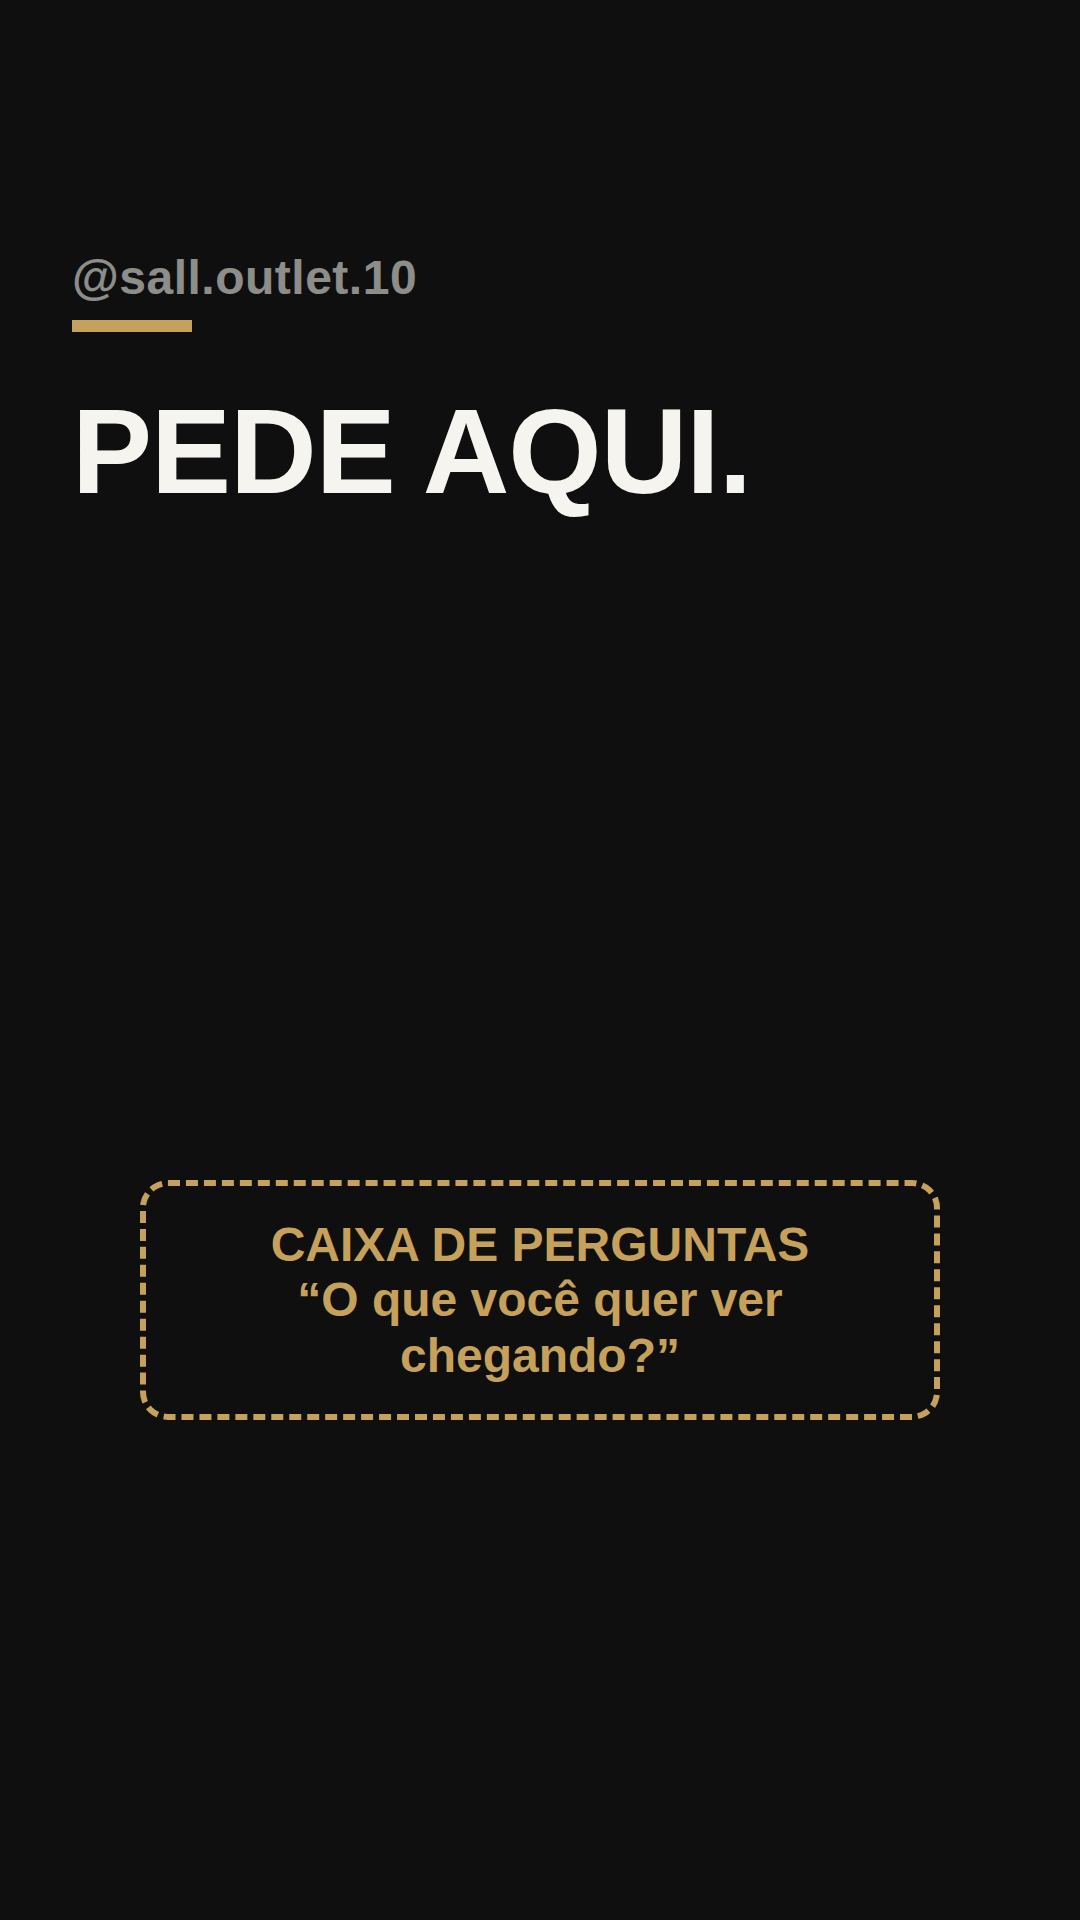
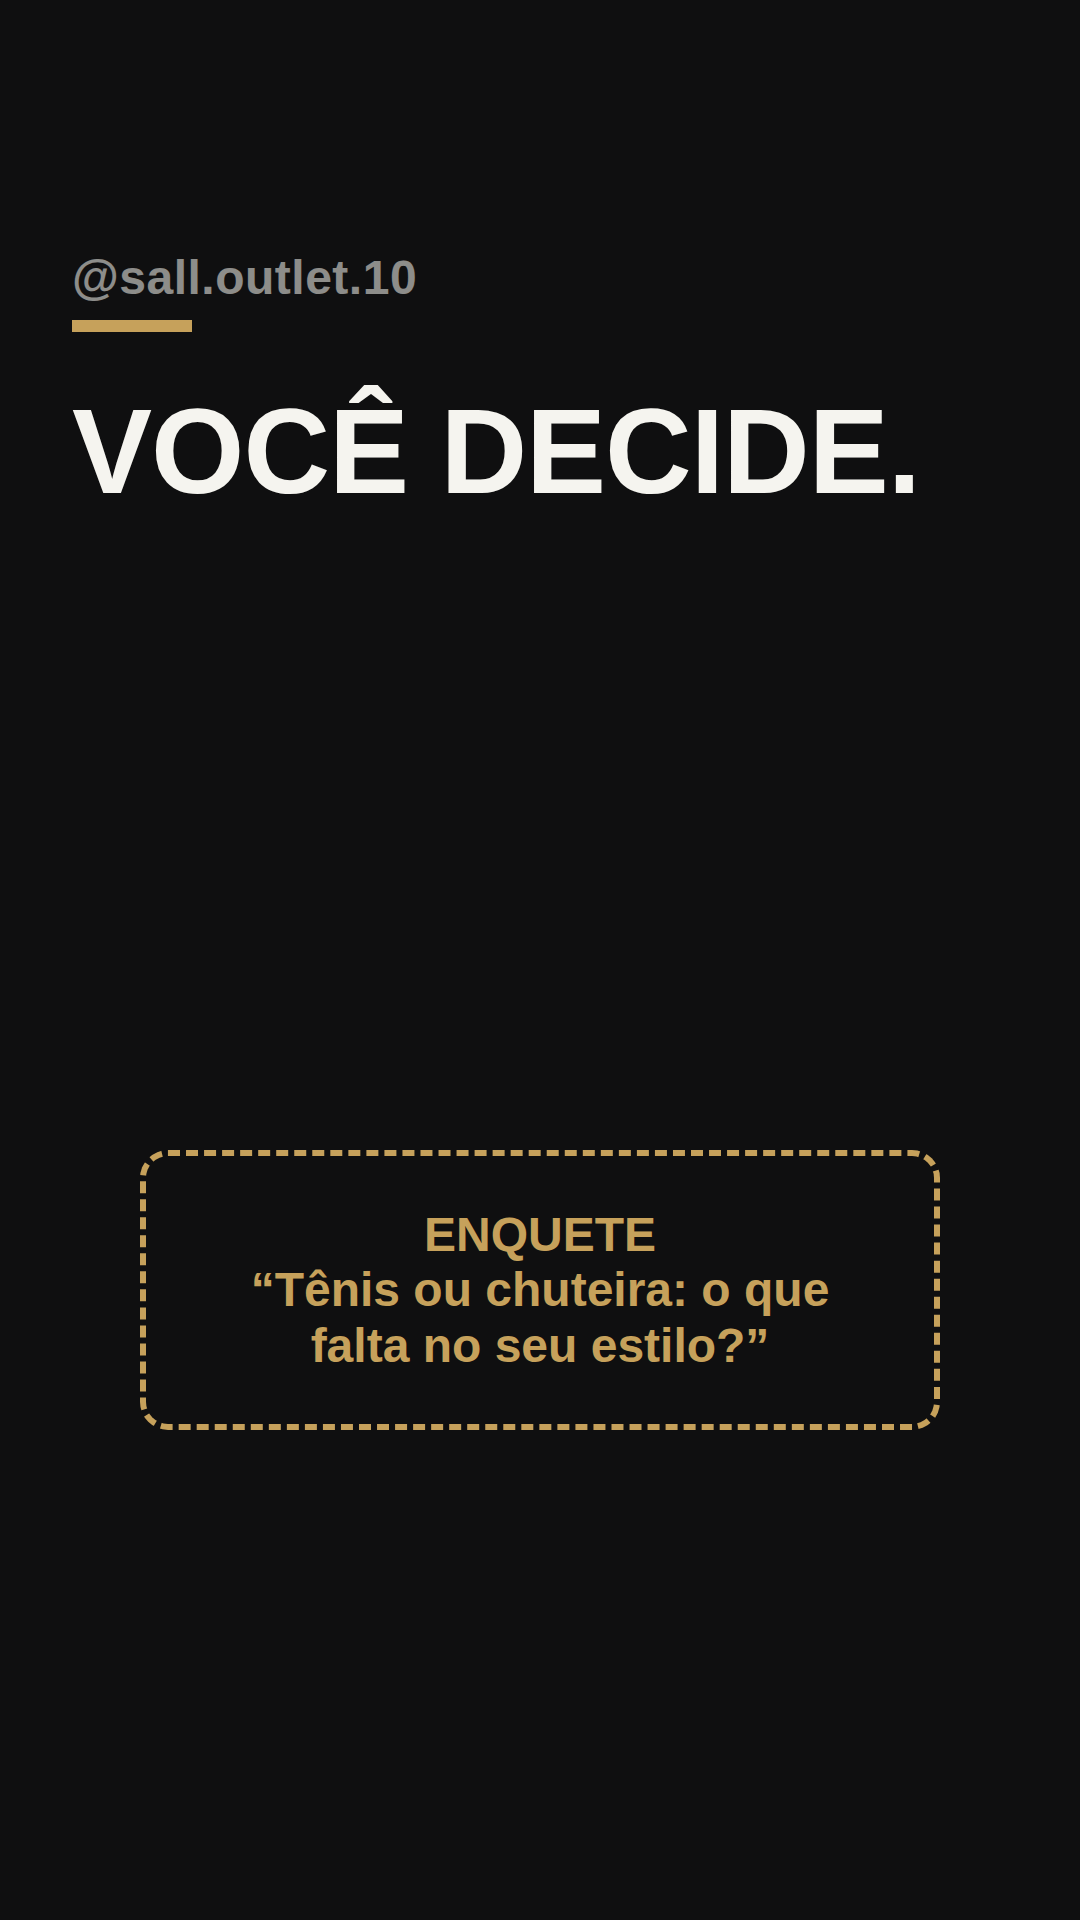
Stories: Saturday PNGs, sticker swaps, and a week roteiro
- 10/10: Saturday question-box screens for SALL Loja and SALL Outlet.
- 09/10 Loja plan B: quiz becomes a poll ("Qual você joga mais?"),
  the first of the week's two Loja polls.
- 08/10 Outlet no-photo: screen 02 becomes a poll (tênis ou chuteira)
  so Saturday keeps the only question box.
- out/stories/roteiro-semana-2026-10-05.md: one posting guide for the
  week (screens, stickers, rules, plan B logic, feed corrections and
  what is still pending).

Claude-Session: https://claude.ai/code/session_014pu1mEdjFgQDZR3YbUYQEj

Changed region(s): [[0.1222, 0.5938, 0.8861, 0.75], [0.3972, 0.1875, 0.8556, 0.2812], [0.0611, 0.1875, 0.3667, 0.2812]]

diff --git a/out/stories/roteiro-semana-2026-10-05.md b/out/stories/roteiro-semana-2026-10-05.md
@@ -1,0 +1,170 @@
+# Roteiro da semana · Stories SALL Loja e SALL Outlet · 05 a 11/10/2026
+
+Guia único para postar a semana inteira: o que vai ao ar em cada dia, em que ordem, com qual figurinha, e quais regras valem.
+Arquivos: `out/stories/2026-10-DD/<marca>/NN.png` no branch `claude/festive-archimedes-8te3o5`.
+
+---
+
+## 1. Regras que valem todos os dias
+
+**Marcas**
+| | SALL Loja · @sallloja10 | SALL Outlet · @sall.outlet.10 |
+|---|---|---|
+| Vende | itens e contas de Roblox (Blox Fruits, Steal a Brainrot) | roupas, tênis, chuteiras e variedade. **Nada de Roblox** |
+| Série fixa | POV (pedido confirmado → processando 94% → entrega concluída → já é seu) | "Chegou na Outlet" + "esse ou esse?" |
+| Assinatura | SALL. Seu upgrade começa aqui. | SALL Outlet — exclusividade e estilo. |
+| Link | sallloja.com | salloutlet.com |
+| Cor de destaque (provisória) | azul #4C7DFF | dourado #C6A15B |
+
+Fundo #0F0F10, texto #F5F4EF, fonte Liberation Sans Bold. A paleta é provisória e está registrada no voice.md.
+
+**Nunca**
+- Inventar preço, desconto, prazo de entrega, quantidade de produtos ou depoimento.
+- Prometer velocidade de entrega (nada de "entrega na hora" ou "entrega rápida").
+- Citar número de produtos sem confirmação do dono.
+- Afirmar que algo "acabou de chegar" sem item confirmado.
+- Usar imagem de banco, ilustração ou produto genérico no lugar do real.
+- Misturar assinatura ou CTA entre as marcas.
+
+**Formato de cada dia**
+- Tela 1 é gancho (pergunta, contraste ou número real), pontuado pelo `hookscore.py`.
+- No máximo 4 telas por marca. Pelo menos 1 figurinha interativa por dia.
+- A última tela tem figurinha de **link** (nunca link escrito). Exceção: quarta, que fecha com o repost.
+- Imagem 1080x1920. Nada nos 250 px de cima nem nos 340 px de baixo. Fonte ≥ 48 px, até ~15 palavras por tela.
+- O retângulo pontilhado marca onde colar a figurinha no app. A figurinha cobre o texto de guia.
+- SALL Loja: no máximo **2 enquetes na semana** (sexta e domingo).
+
+**Fotos**
+- Suba como `assets/stories/2026-10-DD/<marca>/NN.jpg` (NN = número da tela). Antes de gerar cada dia, faço `git pull` e uso a foto que estiver lá.
+- Sem foto, a tela sai só com tipografia e cor. Até agora, **todas** as telas da semana saíram assim, porque nenhuma foto foi enviada.
+
+---
+
+## 2. Dia a dia
+
+### Segunda 05 → postada na terça 06
+Arquivos: `2026-10-05/`
+
+| Marca | Tela | Texto | Figurinha |
+|---|---|---|---|
+| Loja | 01 | POV: O ITEM QUE FALTAVA NO SEU ROBLOX. (78) | — |
+| Loja | 02 | PEDIDO CONFIRMADO. / processando… 94% | Controle deslizante "Quanto você quer esse item?" |
+| Loja | 03 | ENTREGA CONCLUÍDA. / item recebido ✓ | — |
+| Loja | 04 | JÁ É SEU. / assinatura | Link → sallloja.com |
+| Outlet | 01 | VOCÊ AINDA NÃO VIU O QUE CHEGOU NA OUTLET. (87) | — |
+| Outlet | 02 | CHEGOU NA OUTLET. | — |
+| Outlet | 03 | OLHA O DETALHE. | Controle deslizante "Quanto você quer?" |
+| Outlet | 04 | GARANTE O SEU. / assinatura | Link → salloutlet.com |
+
+### Terça 06
+Sem conteúdo próprio: neste dia vão ao ar os stories de segunda.
+
+### Quarta 07 · post novo no feed (repost)
+Arquivos: `2026-10-07/` (o PNG 02 é só referência).
+
+| Marca | Tela | Texto | Figurinha |
+|---|---|---|---|
+| Loja | 01 | VOCÊ JOGA ROBLOX SEM ESSE ITEM? / post novo no feed (84) | — |
+| Loja | 02 | repost do **reel corrigido**, feito pelo Instagram com fundo de cor | Controle deslizante "Esse item no seu inventário?" |
+| Outlet | 01 | VOCÊ AINDA JOGA DE CHUTEIRA GASTA? / post novo no feed (81) | — |
+| Outlet | 02 | repost do reel Nike, feito pelo Instagram com fundo de cor | Enquete "Você joga em campo ou society?" |
+
+Como fazer o repost: abra o reel → enviar → "Adicionar ao story" → cor de fundo, texto e figurinha no app.
+
+### Quinta 08
+Arquivos: `2026-10-08/`
+
+| Marca | Tela | Texto | Figurinha |
+|---|---|---|---|
+| Loja | 01 | POV: SEU ROBLOX SEM ESSE ITEM FICOU NO PASSADO. (87) | — |
+| Loja | 02 | PEDIDO CONFIRMADO. / processando… 94% | Controle deslizante "Nível de vontade:" |
+| Loja | 03 | ENTREGA CONCLUÍDA. / item recebido ✓ | — |
+| Loja | 04 | JÁ É SEU. / assinatura | Link → sallloja.com |
+
+**SALL Outlet: escolha uma versão na hora de postar**
+- **Com foto** em `assets/stories/2026-10-08/salloutlet/` → pasta `salloutlet/`, 4 telas: "VOCÊ AINDA NÃO VIU ISSO DE PERTO NA OUTLET." (87) → "DE PERTO." → "O DETALHE FAZ O ESTILO." + controle deslizante "Combina com você?" → "GARANTE O SEU." + link.
+- **Sem foto** → pasta `salloutlet-sem-foto/`, 3 telas:
+
+| Tela | Texto | Figurinha |
+|---|---|---|
+| 01 | O QUE FALTA NO SEU ESTILO? (52) | — |
+| 02 | VOCÊ DECIDE. | Enquete "Tênis ou chuteira: o que falta no seu estilo?" |
+| 03 | SALL OUTLET / exclusividade e estilo. | Link → salloutlet.com |
+
+### Sexta 09 · plano B (itens reais não confirmados)
+Arquivos: `2026-10-09/sallloja/` e `2026-10-09/salloutlet/`
+
+| Marca | Tela | Texto | Figurinha |
+|---|---|---|---|
+| Loja | 01 | BLOX FRUITS OU STEAL A BRAINROT? / você só pode escolher um. (65) | — |
+| Loja | 02 | QUAL VOCÊ JOGA MAIS? | **Enquete 1/2** "Qual você joga mais?" Blox Fruits x Steal a Brainrot |
+| Loja | 03 | GARANTE O SEU. / assinatura | Link → sallloja.com |
+| Outlet | 01 | VOCÊ NÃO PODE FICAR SEM ALGO NOVO NA OUTLET. (87) | — |
+| Outlet | 02 | VOCÊ DECIDE. | Controle deslizante "Quanto você quer algo novo?" |
+| Outlet | 03 | GARANTE O SEU. / assinatura | Link → salloutlet.com |
+
+Se os itens reais chegarem a tempo, use as pastas `sallloja-com-enquete/` e `salloutlet-com-enquete/`. Os itens são digitados na enquete, dentro do app.
+
+### Sábado 10 · caixa de perguntas
+Arquivos: `2026-10-10/`
+
+| Marca | Tela | Texto | Figurinha |
+|---|---|---|---|
+| Loja | 01 | AINDA NÃO ACHOU SEU ITEM DE ROBLOX? / você manda. (100) | — |
+| Loja | 02 | PEDE AQUI. | Caixa de perguntas "Qual item você quer ver na SALL?" |
+| Loja | 03 | SALL. / Seu upgrade começa aqui. | Link → sallloja.com |
+| Outlet | 01 | AINDA NÃO ACHOU NA OUTLET? / você manda. (100) | — |
+| Outlet | 02 | PEDE AQUI. | Caixa de perguntas "O que você quer ver chegando?" |
+| Outlet | 03 | SALL OUTLET / exclusividade e estilo. | Link → salloutlet.com |
+
+### Domingo 11 · fechamento (PNGs ainda não gerados)
+Como sexta vai ao ar no plano B, não existe "item mais votado" nem "produto mais votado". O domingo usa a **versão B**, sem resultado:
+
+| Marca | Tela | Texto | Figurinha |
+|---|---|---|---|
+| Loja | 01 | POV: O ITEM QUE VOCÊ ESCOLHEU NO ROBLOX JÁ É SEU. (81) | — |
+| Loja | 02 | PEDIDO CONFIRMADO. / processando… 94% | **Enquete 2/2** "Garante o seu hoje?" Sim x Ainda não |
+| Loja | 03 | ENTREGA CONCLUÍDA. / item recebido ✓ | — |
+| Loja | 04 | JÁ É SEU. / assinatura | Link → sallloja.com |
+| Outlet | 01 | AINDA NÃO ACHOU NA OUTLET? | — |
+| Outlet | 02 | DE PERTO. | Controle deslizante "Esse vai pro seu look?" |
+| Outlet | 03 | GARANTE O SEU. / assinatura | Link → salloutlet.com |
+
+A tela 01 da Outlet no domingo repete o gancho de sábado. Vale decidir antes de gerar se é melhor trocar.
+
+---
+
+## 3. O que mudou no feed nesta semana
+
+| Post | Antes | Depois |
+|---|---|---|
+| Reel SALL Loja, cartão 0:02.5 | ACABOU DE CHEGAR, MANO. | OLHA ISSO, MANO. |
+| Reel SALL Loja, cartão 0:04.5 | PREÇO NO SITE. ENTREGA NA HORA. | PREÇO E DETALHES NO SITE. |
+| Reel SALL Loja, cartão 0:07.5 | 45 PRODUTOS NO SITE. | (removido) |
+| Legenda do reel SALL Loja | Item de Roblox novo acabou de chegar na SALL… | O item que faltava no seu Roblox. Garante o seu pelo link na bio. |
+| Carrossel SALL Loja | entrega rápida · 45 produtos | sem prazo e sem número |
+| Carrossel SALL Outlet | 43 produtos | sem número |
+
+O MP4-guia do reel corrigido está em `out/reels/sallloja-roblox-corrigido.mp4`. É só a camada de texto, para usar no CapCut sobre a gravação real. Se a gravação for enviada para `assets/reels/sallloja-roblox-corrigido/`, eu monto os cartões por cima.
+
+---
+
+## 4. Pendências
+
+1. **Domingo 11:** gerar os PNGs (versão B), depois de aprovar a tela 01 da Outlet.
+2. **Etapa 4:** checklist de postagem por dia. Este roteiro já cobre a ordem das telas e as figurinhas.
+3. **Etapa 5:** registrar os stories no log, atualizar o voice.md com as correções permanentes (sem prazo de entrega, sem número de produtos sem confirmação, Outlet sem Roblox) e fazer merge no `main`.
+4. **Fotos reais:** nenhuma foi enviada até agora. Quando chegarem, gero de novo o dia correspondente.
+5. **Cores oficiais:** a paleta atual é provisória.
+
+---
+
+## 5. Como gerar de novo
+
+```bash
+git pull
+python3 tools/stories/render.py tools/stories/specs/2026-10-DD.json   # stories do dia
+python3 tools/reels/render_reel.py tools/reels/specs/sallloja-roblox.json  # MP4-guia do reel
+```
+
+O texto de cada tela fica em `tools/stories/specs/2026-10-DD.json`. Para corrigir uma palavra, edite o arquivo e rode de novo.
